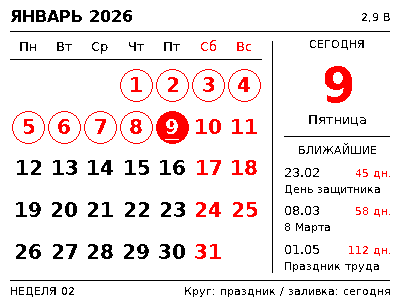
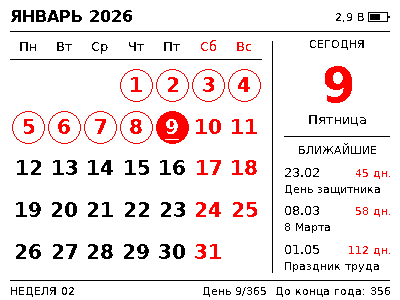
Show useful year progress and calendar battery; document fork survey

Changed region(s): [[0.45, 0.96, 0.99, 0.99], [0.84, 0.03, 0.99, 0.09]]

diff --git a/GUI/GUI_RU.c b/GUI/GUI_RU.c
@@ -34,6 +34,32 @@ static const char *holiday_label(cal_date_t d) {
         default: return "День единства";
     }
 }
+static uint8_t batt_cal(uint16_t voltage) {
+    uint16_t adc_sample = (voltage * 2047) / 3600;
+    if (adc_sample > 1705)
+        return 100;
+    else if (adc_sample <= 1705 && adc_sample > 1584)
+        return 28 + (uint8_t)(((((adc_sample - 1584) << 16) / (1705 - 1584)) * 72) >> 16);
+    else if (adc_sample <= 1584 && adc_sample > 1360)
+        return 4 + (uint8_t)(((((adc_sample - 1360) << 16) / (1584 - 1360)) * 24) >> 16);
+    else if (adc_sample <= 1360 && adc_sample > 1136)
+        return (uint8_t)(((((adc_sample - 1136) << 16) / (1360 - 1136)) * 4) >> 16);
+    else
+        return 0;
+}
+
+/* Same indicator in calendar and clock; voltage is measured, fill is approximate. */
+static void battery(Adafruit_GFX *g,int right,int top,uint16_t voltage) {
+    char value[20];
+    snprintf(value,sizeof(value),"%u,%u В",voltage/1000,(voltage%1000)/100);
+    GFX_setFont(g,u8g2_font_ru11);
+    text(g,right-24-GFX_getUTF8Width(g,value),top+9,GFX_BLACK,u8g2_font_ru11,value);
+    int bx=right-20;
+    GFX_drawRect(g,bx,top,20,10,GFX_BLACK);
+    GFX_fillRect(g,bx+20,top+4,2,2,GFX_BLACK);
+    GFX_fillRect(g,bx+2,top+2,16*batt_cal(voltage)/100,6,GFX_BLACK);
+}
+
 static void calendar(Adafruit_GFX *g, const gui_data_t *data, cal_date_t d) {
     const uint16_t accent=data->color>=2 ? GFX_RED : GFX_BLACK;
     const int width=data->width, height=data->height;
@@ -43,9 +69,7 @@ static void calendar(Adafruit_GFX *g, const gui_data_t *data, cal_date_t d) {
     char buf[80];
     snprintf(buf,sizeof(buf),"%s %u",cal_month_names[d.month-1],d.year);
     text(g,10,22,GFX_BLACK,u8g2_font_ru16,buf);
-    snprintf(buf,sizeof(buf),"%u,%u В",data->voltage/1000,(data->voltage%1000)/100);
-    GFX_setFont(g,u8g2_font_ru11);
-    text(g,width-10-GFX_getUTF8Width(g,buf),21,GFX_BLACK,u8g2_font_ru11,buf);
+    battery(g,width-12,12,data->voltage);
     GFX_drawFastHLine(g,10,31,width-20,GFX_BLACK);
     GFX_drawFastVLine(g,divider,41,bottom-41,GFX_BLACK);
     static const char *const labels[]={"Пн","Вт","Ср","Чт","Пт","Сб","Вс"};
@@ -107,24 +131,17 @@ static void calendar(Adafruit_GFX *g, const gui_data_t *data, cal_date_t d) {
     uint16_t wy; unsigned week=cal_iso_week(d,&wy);
     snprintf(buf,sizeof(buf),"НЕДЕЛЯ %02u",week);
     text(g,10,height-5,GFX_BLACK,u8g2_font_ru11,buf);
-    const char *note=cal_transfers_known(d.year) ? "Круг: праздник / заливка: сегодня" : "Переносы на этот год не заданы";
-    GFX_setFont(g,u8g2_font_ru11);
-    text(g,width-10-GFX_getUTF8Width(g,note),height-5,GFX_BLACK,u8g2_font_ru11,note);
-}
-static uint8_t batt_cal(uint16_t voltage) {
-    uint16_t adc_sample = (voltage * 2047) / 3600;
-    if (adc_sample > 1705)
-        return 100;
-    else if (adc_sample <= 1705 && adc_sample > 1584)
-        return 28 + (uint8_t)(((((adc_sample - 1584) << 16) / (1705 - 1584)) * 72) >> 16);
-    else if (adc_sample <= 1584 && adc_sample > 1360)
-        return 4 + (uint8_t)(((((adc_sample - 1360) << 16) / (1584 - 1360)) * 24) >> 16);
-    else if (adc_sample <= 1360 && adc_sample > 1136)
-        return (uint8_t)(((((adc_sample - 1136) << 16) / (1360 - 1136)) * 4) >> 16);
+    unsigned ordinal=cal_day_of_year(d),left=cal_days_left_in_year(d);
+    if (cal_transfers_known(d.year))
+        snprintf(buf,sizeof(buf),"День %u/%u  До конца года: %u",ordinal,ordinal+left,left);
     else
-        return 0;
+        snprintf(buf,sizeof(buf),"День %u/%u  Переносы не заданы",ordinal,ordinal+left);
+    GFX_setFont(g,u8g2_font_ru11);
+#ifdef CALENDAR_LAYOUT_CHECK
+    assert(width-10-GFX_getUTF8Width(g,buf)>100);
+#endif
+    text(g,width-10-GFX_getUTF8Width(g,buf),height-5,GFX_BLACK,u8g2_font_ru11,buf);
 }
-
 // clang-format off
 /* Routine to Draw Large 7-Segment formated number
    Contributed by William Zaggle.
@@ -183,13 +200,7 @@ static void clock_view(Adafruit_GFX *g,const gui_data_t *data,cal_date_t d) {
     assert(g->tx<width-padding-70);
 #endif
     text(g,padding,58,GFX_BLACK,u8g2_font_ru13,cal_week_names[cal_weekday(d.year,d.month,d.day)]);
-    snprintf(s,sizeof(s),"%u,%u В",data->voltage/1000,(data->voltage%1000)/100);
-    GFX_setFont(g,u8g2_font_ru11);
-    text(g,width-padding-24-GFX_getUTF8Width(g,s),34,GFX_BLACK,u8g2_font_ru11,s);
-    int bx=width-padding-20;
-    GFX_drawRect(g,bx,25,20,10,GFX_BLACK);
-    GFX_fillRect(g,bx+20,29,2,2,GFX_BLACK);
-    GFX_fillRect(g,bx+2,27,16*batt_cal(data->voltage)/100,6,GFX_BLACK);
+    battery(g,width-padding,25,data->voltage);
     snprintf(s,sizeof(s),"%d°C",data->temperature);
     GFX_setFont(g,u8g2_font_ru13);
     text(g,width-padding-GFX_getUTF8Width(g,s),58,GFX_BLACK,u8g2_font_ru13,s);

diff --git a/tests/render.c b/tests/render.c
@@ -24,6 +24,7 @@ int main(int argc,char **argv) {
     gui_data_t d={.mode=MODE_CALENDAR,.width=width,.height=height,.color=color,.timestamp=strtoul(argv[1],0,10),.time_valid=true,.voltage=2900,.temperature=27};
     if (argc>6) d.time_valid=atoi(argv[6]);
     if (argc>7) d.mode=atoi(argv[7]);
+    if (argc>8) d.voltage=atoi(argv[8]);
     DrawGUI(&d,page,NULL); assert(pages>0);
     cal_date_t date=cal_from_timestamp(d.timestamp);
     if (d.mode==MODE_CALENDAR && width==400 && height==300 && d.time_valid &&
@@ -46,6 +47,23 @@ int main(int argc,char **argv) {
         for (int square=0;square<2;square++) for (int yy=0;yy<12;yy++) for (int xx=0;xx<12;xx++) {
             unsigned char *p=&pixels[((116+square*56+yy)*width+200+xx)*3];
             assert(p[0]==0 && p[1]==0 && p[2]==0);
+        }
+    }
+    if (d.time_valid && width==400 && height==300 &&
+        (d.mode==MODE_CALENDAR || d.mode==MODE_CLOCK)) {
+        int bx=d.mode==MODE_CALENDAR ? 368 : 340;
+        int top=d.mode==MODE_CALENDAR ? 12 : 25;
+        const int border[][2]={{0,0},{19,9},{20,4},{21,5}};
+        for (unsigned i=0;i<sizeof(border)/sizeof(border[0]);i++) {
+            unsigned char *p=&pixels[((top+border[i][1])*width+bx+border[i][0])*3];
+            assert(p[0]==0 && p[1]==0 && p[2]==0);
+        }
+        if (d.voltage==1900 || d.voltage==3200) {
+            unsigned char expected=d.voltage==1900 ? 255 : 0;
+            for (int y=2;y<8;y++) for (int x=2;x<18;x++) {
+                unsigned char *p=&pixels[((top+y)*width+bx+x)*3];
+                assert(p[0]==expected && p[1]==expected && p[2]==expected);
+            }
         }
     }
     FILE *f=fopen(argv[3],"wb");assert(f);fprintf(f,"P6\n%d %d\n255\n",width,height);fwrite(pixels,3,width*height,f);fclose(f);

diff --git a/tests/test_calendar.py b/tests/test_calendar.py
@@ -15,6 +15,8 @@ lib.cal_month_days.argtypes=[C.c_uint16,C.c_uint8]
 lib.cal_day_kind.argtypes=[C.c_uint16,C.c_uint8,C.c_uint8]
 lib.cal_transfers_known.argtypes=[C.c_uint16];lib.cal_transfers_known.restype=C.c_bool
 lib.cal_next_holiday.argtypes=[Date,C.POINTER(Date)];lib.cal_next_holiday.restype=C.c_char_p
+lib.cal_day_of_year.argtypes=[Date];lib.cal_day_of_year.restype=C.c_uint16
+lib.cal_days_left_in_year.argtypes=[Date];lib.cal_days_left_in_year.restype=C.c_uint16
 class CalendarTests(unittest.TestCase):
     def test_every_day_1970_2105(self):
         epoch=dt.date(1970,1,1);day=epoch;count=0
@@ -23,6 +25,8 @@ class CalendarTests(unittest.TestCase):
             got=lib.cal_from_timestamp(t)
             self.assertEqual((got.year,got.month,got.day,got.hour,got.minute,got.second),(day.year,day.month,day.day,23,59,59))
             self.assertEqual(lib.cal_to_timestamp(got),t)
+            self.assertEqual(lib.cal_day_of_year(got),day.timetuple().tm_yday)
+            self.assertEqual(lib.cal_days_left_in_year(got),(dt.date(day.year,12,31)-day).days)
             following=lib.cal_from_timestamp(t+1); tomorrow=day+dt.timedelta(days=1)
             self.assertEqual((following.year,following.month,following.day,following.hour,following.minute,following.second),(tomorrow.year,tomorrow.month,tomorrow.day,0,0,0))
             self.assertEqual(lib.cal_weekday(day.year,day.month,day.day),day.weekday())

diff --git a/tools/archive_candidates.py b/tools/archive_candidates.py
@@ -12,7 +12,7 @@ for chip in ('51','52'):
  for name in ['application.hex','application.bin','application.elf','application.map','application.ld','application-info.json','application-ota.zip']:
   data=(folder/name).read_bytes(); files[f'nrf{chip}-ru/{name}']=data
 for path in (root/'docs/previews').glob('*.png'): files['previews/'+path.name]=path.read_bytes()
-for name in ['docs/flashing_ru.md','docs/holidays_ru.md','docs/validation_ru.md']:
+for name in ['docs/flashing_ru.md','docs/holidays_ru.md','docs/validation_ru.md','docs/github_survey_ru.md']:
  files[name]=(root/name).read_bytes()
 for source,name in [('LICENSE','GPL-3.txt'),('tools/fonts/LICENSE-DejaVu.txt','DejaVu.txt'),('SDK/17.1.0_ddde560/modules/nrfx/LICENSE','Nordic-nrfx.txt'),('SDK/17.1.0_ddde560/external/segger_rtt/license/license.txt','SEGGER.txt')]:
  files['LICENSES/'+name]=(root/source).read_bytes()

diff --git a/tools/render_previews.py b/tools/render_previews.py
@@ -36,4 +36,9 @@ for timestamp,name in [(1792589160,'clock'),(int(dt.datetime(2025,7,18,10,8,tzin
    frames.append(frame.read_bytes())
   assert frames[0]==frames[1], (name,c,'clock page seams')
   Image.open(out/'clock2800.ppm').save(preview/f'{name}-{label}.png')
-print(f'{len(dates)*3*2+28} ASan/UBSan renderings passed; two MCU heap sizes produce identical calendar and clock pixels')
+# Empty/full battery: outline, terminal and fill, on both screens and all palettes.
+for mode in (1,2):
+ for voltage in (1900,3200):
+  for c in (1,2,3):
+   subprocess.run([str(out/'render2800'),'1792540800',str(c),str(out/'battery.ppm'),'400','300','1',str(mode),str(voltage)],check=True)
+print(f'{len(dates)*3*2+40} ASan/UBSan renderings passed; two MCU heap sizes produce identical calendar and clock pixels')

diff --git a/GUI/calendar.c b/GUI/calendar.c
@@ -24,6 +24,14 @@ cal_date_t cal_from_timestamp(uint32_t t) {
     d.day=n+1; return d;
 }
 uint32_t cal_to_timestamp(cal_date_t d) { return days_before(d.year,d.month,d.day)*86400 + d.hour*3600u + d.minute*60u + d.second; }
+uint16_t cal_day_of_year(cal_date_t d) {
+    uint16_t ordinal=d.day;
+    for (uint8_t month=1;month<d.month;month++) ordinal+=cal_month_days(d.year,month);
+    return ordinal;
+}
+uint16_t cal_days_left_in_year(cal_date_t d) {
+    return (leap(d.year)?366:365)-cal_day_of_year(d);
+}
 static uint8_t weeks(uint16_t y) { uint8_t w=cal_weekday(y,1,1); return w==3 || (w==2 && leap(y)) ? 53 : 52; }
 uint8_t cal_iso_week(cal_date_t d, uint16_t *wy) {
     int doy=days_before(d.year,d.month,d.day)-days_before(d.year,1,1)+1;

diff --git a/GUI/calendar.h b/GUI/calendar.h
@@ -9,6 +9,8 @@ uint8_t cal_month_days(uint16_t year, uint8_t month);
 uint8_t cal_weekday(uint16_t year, uint8_t month, uint8_t day); /* Monday = 0 */
 cal_date_t cal_from_timestamp(uint32_t local_seconds);
 uint32_t cal_to_timestamp(cal_date_t date);
+uint16_t cal_day_of_year(cal_date_t date);
+uint16_t cal_days_left_in_year(cal_date_t date);
 uint8_t cal_iso_week(cal_date_t date, uint16_t *week_year);
 const char *cal_holiday(uint8_t month, uint8_t day);
 bool cal_transfers_known(uint16_t year);

diff --git a/tools/package_ota.py b/tools/package_ota.py
@@ -11,7 +11,7 @@ p.add_argument('--chip', choices=['51','52'], required=True)
 p.add_argument('--application', required=True)
 p.add_argument('--key', required=True)
 p.add_argument('--out', required=True)
-p.add_argument('--version',type=lambda s:int(s,0),default=0x1c)
+p.add_argument('--version',type=lambda s:int(s,0),default=0x1d)
 a=p.parse_args()
 signer=Signing();signer.load_key(a.key)
 softdevice=0x126 if a.chip=='52' else 0x87

diff --git a/EPD/EPD_service.h b/EPD/EPD_service.h
@@ -43,7 +43,7 @@ void ble_epd_evt_handler(ble_evt_t const* p_ble_evt, void* p_context);
 #endif
 
 #if CALENDAR_RUSSIAN
-#define APP_VERSION 0x1c
+#define APP_VERSION 0x1d
 #else
 #define APP_VERSION 0x1a
 #endif

diff --git a/docs/github_survey_ru.md b/docs/github_survey_ru.md
@@ -1,0 +1,33 @@
+# Что полезного найдено на GitHub
+
+Срез от 21 октября 2026 года. Исследование выполнено через публичный GitHub API без изменений чужих репозиториев. Upstream сообщает 196 форков; API вернул 182 доступных публичных репозитория. Для 58 выбранных форков проверено сравнение с upstream `main`: 36 имеют собственные коммиты, 20 только отстают, два совпадают. Собственный форк исключён. Изучены изменения и первичные документы перспективных направлений; полный аудит каждого форка не проводился.
+
+Ниже ссылки закреплены на просмотренных коммитах. Заявления авторов об испытаниях на железе приведены отдельно от наших программных проверок. Чужой код не запускался, аппаратные параметры и BLE-протокол нашей прошивки не менялись.
+
+## Что пригодится в первую очередь
+
+| Проект | Полезное | Совместимость и решение |
+| --- | --- | --- |
+| [EPD-nRF5-JP](https://github.com/jyh9521/EPD-nRF5-JP/blob/316b9212751fe77240427f2ea5595c2a9a738a00/docs/jp-build-ota.md) | Локализация, GNU-сборка, подробный отчёт о DFU на nRF52811 и 4,2″ UC8176; восстановление выбора панели после обновления | Самый полезный аппаратный ориентир: внешне похожий ценник может требовать UC8176 вместо SSD1619. Автор сообщает об успешном OTA 26.09.2026, мы этот опыт не повторяли. Нельзя переносить его панель по умолчанию на неизвестный Hema. Перед обновлением записать текущую конфигурацию и проверить её после DFU. |
+| [Windows EpdHub](https://github.com/NameLessKnight/EPD-nRF5/blob/26e9be6fbc8d77d9889a94ed0fd2864b81a44ab8/windows/README.md) | .NET 8, Windows 10+, прямое BLE, загрузка изображений/сцен, работа из трея и Secure DFU | Полезен как дополнительный клиент без телефона. В его DFU-коде действительно проверяются CRC и смещения объектов. Команда телеметрии `0x93` добавлена только в том форке, наша её не поддерживает: клиент нельзя объявлять полностью совместимым. Автономный календарь по-прежнему работает на MCU, без запущенного ПК. |
+| [Передача с CRC — YCD12](https://github.com/YCD12/EPD-nRF5_DYC/blob/f2889f4a6d14beb877cd8fac9b43814aea69b673/docs/BLE_CRC_Transfer_Design.md) | Подтверждения блоков изображений, контроль повреждений и состояния передачи | Перспективное отдельное улучшение для загрузки картинок. Добавляет `0x31/0x32/0x33` и ответы `0xa0/0xa1`; потребует согласованной доработки клиента и firmware. Проверка возможностей через `version >= 0x19` ошибочна между форками: наша версия тоже выше, но этих команд нет. Нужен явный запрос возможностей и проверка адресации RAM панели при повторе блока. |
+| [Drane22: отрисовка](https://github.com/Drane22/EPD-nRF5/blob/422249d4e626f20a58e87852805d42bc13ada09e/docs/epd-rendering.md) | Ограничение палитры после растеризации, сравнение хеша плоскостей для пропуска одинаковых картинок, ограничение частоты обновлений | Полезные идеи для загрузчика изображений. Их профиль B514 использует собственную нумерацию моделей: `0x16` там нельзя приравнивать к модели нашей прошивки. Браузерный календарь из картинки не заменяет автономный. Успешная BLE-передача сама по себе не подтверждает завершение обновления E-Ink. |
+
+Практический приоритет: сначала подтвердить аппаратную ревизию и сохранить конфигурацию/резервную копию; затем при необходимости адаптировать Windows-клиент. CRC-передачу стоит делать отдельным изменением с тестами обеих сторон и панели. Эти расширения не включены в текущие образы: исходные команды BLE и загрузчик сохранены.
+
+## Что проверено и не перенесено
+
+- [flying9802](https://github.com/flying9802/EPD-nRF5/tree/f3c8d1ad11c07dacde7822caafa1c920a5f737fe) добавляет SSD1673 для 2,13″ 250×122. Это другая панель.
+- [Hema 2,13″](https://github.com/jam422470459/EPD-nRF52-hema213/tree/52698b79e08e8defcfd5f51737b58ff734746a61) подтверждает разнообразие Hema, но его GPIO и настройки не подходят автоматически к 4,2″.
+- [tiancheng91](https://github.com/tiancheng91/EPD-nRF5/commit/172b337a5d6df702829114f0de5980e4b3e2724f) увеличивает ожидание BUSY с 30000 до UINT16_MAX. Без измерения нашей панели это может скрыть неисправность; таймаут не изменён.
+- [sbdrin](https://github.com/sbdrin/EPD-nRF5/tree/540e9b6f451e791993dac64e1f613681eedab53e) убирает watchdog. Для автономного устройства это нежелательно; watchdog сохранён.
+- [CyrusShu](https://github.com/CyrusShu/EPD-nRF5/tree/047be4475c9aa0a2527d43f4469e437461cd045d) добавляет ручной часовой пояс. В нашей версии уже есть проверка целого смещения и Москва UTC+3; копирование не требуется.
+- [ATC_TLSR_Paper](https://github.com/atc1441/ATC_TLSR_Paper/tree/3778d296f418c30b05310d86dafa4e3404071cb4) рассчитан на TLSR8359. Его загрузчик/OTA не совместимы с Nordic только потому, что корпус похож.
+
+## Отдельно о размере приложения
+
+Японский форк ограничивает приложение nRF52811 концом `0x26000`, оставляя дополнительную страницу. В нашем включённом SDK17 `dfu/sdk_config.h` явно задаёт `NRF_DFU_APP_DATA_AREA_SIZE=8192`; при загрузчике с `0x29000` это даёт предел `0x27000`, как в нашем linker script. Определение по умолчанию на три страницы в `nrf_dfu_types.h` применяется только при отсутствии настройки. Менять разметку по чужой сборке оснований нет. Размеры наших текущих кандидатов и адреса записаны в [manifest](../artifacts/manifest.json); реальную разметку установленного загрузчика всё равно нужно подтвердить перед записью.
+
+## Что уже сделано в нашем форке
+
+Легенда внизу календаря заменена на номер дня и число дней до конца года. Для годов без официальной таблицы переносов сохранено предупреждение. В календарь добавлен такой же индикатор батареи, как в часы: измеренное напряжение и приблизительное заполнение по исходной кривой, без обещания точного процента CR2450. Дополнительных пробуждений, BLE-команд или обновлений экрана это не создаёт.

diff --git a/docs/validation_ru.md b/docs/validation_ru.md
@@ -10,13 +10,14 @@
 
 ## Автоматизированные проверки
 
-- `tests/test_calendar.py`: 49 673 даты 1970–2105, преобразования туда/обратно, 23:59:59 → 00:00:00 следующего дня, понедельник первым, ISO-неделя и её год против Python datetime; 2000/2024/2028 високосные, 2100 невисокосный.
+- `tests/test_calendar.py`: 49 673 даты 1970–2105, преобразования туда/обратно, 23:59:59 → 00:00:00 следующего дня, понедельник первым, ISO-неделя и её год, порядковый день и остаток года против Python datetime; 2000/2024/2028 високосные, 2100 невисокосный.
 - Праздники РФ и исключения 2025–2027: рабочие субботы, перенесённые выходные, 247 рабочих дней в каждом году; fallback 2028 без переноса соседнего года.
 - `tests/test_refresh.c`: переход полуночи, повтор после заполненной очереди scheduler, отсутствие повторных обновлений в течение суток, режимы часов и картинки.
 - `tests/test_web.js`: фактический `syncTime` из веб-интерфейса, точные байты SET_TIME, московская полночь, отрицательное смещение и отказ от молчаливого округления дробного часового пояса.
-- `tools/render_previews.py`: реальный C-рендерер и реальный U8g2 под AddressSanitizer/UndefinedBehaviorSanitizer, 160 рендеров: все месяцы 2026, даты с переносами, шесть строк, переход года, 29 февраля, 2100 год, монохром/три/четыре цвета; стандартные большие разрешения upstream.
+- `tools/render_previews.py`: реальный C-рендерер и реальный U8g2 под AddressSanitizer/UndefinedBehaviorSanitizer, 172 рендера: все месяцы 2026, даты с переносами, шесть строк, переход года, 29 февраля, 2100 год, монохром/три/четыре цвета; стандартные большие разрешения upstream.
 - Каждый основной кадр сравнивается побайтно для heap 2800 и 8192: проверены швы страниц и полное совпадение изображения. Проверяется наличие всех русских глифов, включая Ё/ё, и UTF-8 измерение текста. Host-only assertions проверяют горизонтальные и вертикальные границы текста. Отдельно проверена новая компоновка по референсу владельца: сетка слева и дата с ближайшими праздниками справа. Они обнаружили длинную строку запроса синхронизации; строка сокращена и проверка повторена.
 - Дополнительно проверены круглые отметки в шестистрочном ноябре 2026 года, чёрный цвет всей области времени, оба квадрата двоеточия 12×12 пикселей и часы на дате референса 18.07.2025 10:08. Геометрия сегментов взята непосредственно из исходного `Draw7Number` с сохранением авторства.
+- Батарейка на календаре и часах проверена попиксельно: корпус, контакт, пустое и полное заполнение во всех трёх палитрах. Нижняя строка показывает порядковый день/длину года и число дней после текущей даты до 31 декабря; за пределами таблиц переносов сохраняется предупреждение.
 - Проверены синтаксис JavaScript и `git diff --check`.
 - Подписанные OTA ZIP проверены через Nordic pc-nrfutil: подпись ECDSA, SHA256 образа, размер, hw_version, sd_req. Принятие устройством не проверено.
 

diff --git a/docs/architecture_ru.md b/docs/architecture_ru.md
@@ -41,6 +41,6 @@ LFCLK использует внутренний RC, так как наличие
 
 ## BLE и OTA
 
-Сохранены UUID, команды, структура конфигурации и передача изображений/RLE. SET_TIME `0x20`: четыре байта big-endian Unix UTC, затем int8 UTC hours и режим. При отсутствии hours RU использует +3, ZH +8. Сборка RU сообщает версию `0x1c`, китайская — исходную `0x1a`. Веб показывает локальное время устройства как UTC-форматированный civil timestamp, чтобы не добавить часовой пояс браузера второй раз.
+Сохранены UUID, команды, структура конфигурации и передача изображений/RLE. SET_TIME `0x20`: четыре байта big-endian Unix UTC, затем int8 UTC hours и режим. При отсутствии hours RU использует +3, ZH +8. Сборка RU сообщает версию `0x1d`, китайская — исходную `0x1a`. Веб показывает локальное время устройства как UTC-форматированный civil timestamp, чтобы не добавить часовой пояс браузера второй раз.
 
 SDK12 и SDK17 используют разные интеграции secure DFU. Приложение лишь переключает в существующий bootloader. Оно не может установить, каким ключом продавец собрал bootloader, и BLE-подключение не подтверждает OTA. Подробности и обнаруженная неопределённость готовых HEX — в [инструкции](flashing_ru.md).
